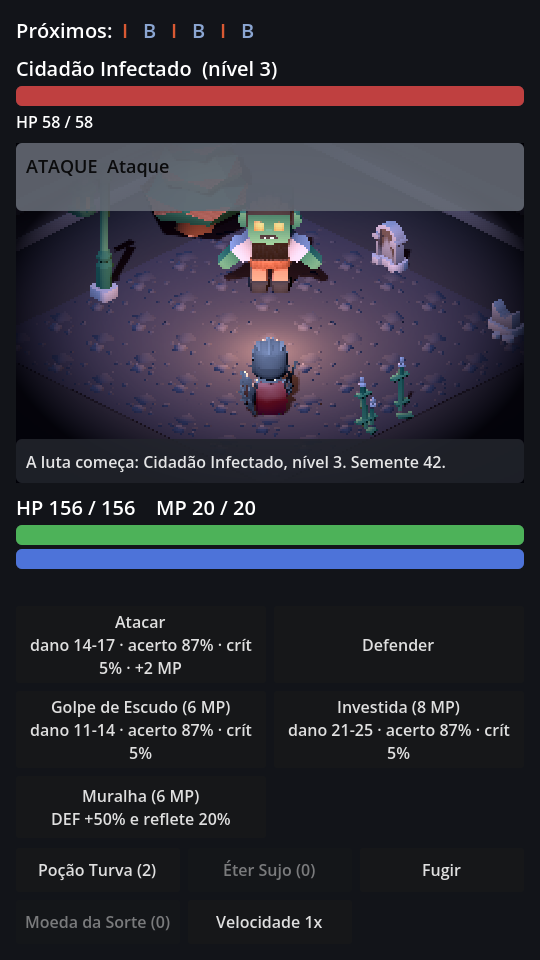
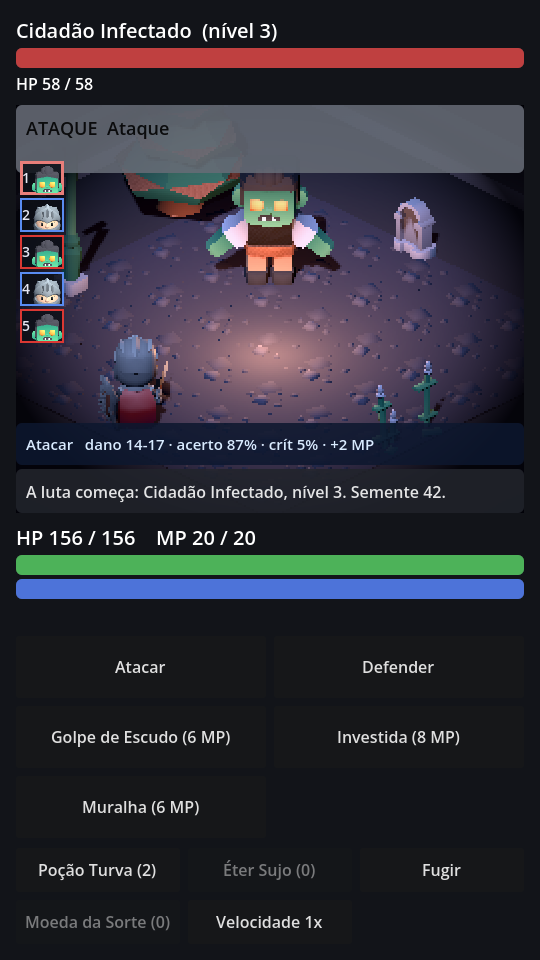
TASK-037: linha do tempo em coluna com retratos, painel de previsão, hit-stop e mutações (ADR-0036)

diff --git a/docs/tasks/TASK-037-combate-3d.md b/docs/tasks/TASK-037-combate-3d.md
@@ -2,7 +2,7 @@
 
 | Campo | Valor |
 | --- | --- |
-| Status | Em andamento: palco 3D, fundo do nó, animações e composição prontos; faltam linha do tempo em coluna, painel de previsão, moeda no palco, hit-stop e mutações no modelo |
+| Status | Em verificação (código, testes e prints prontos; falta o Orlando aprovar os prints e a revisão cruzada) |
 | Aberta em | 2026-11-19 |
 | Fase | 1, apresentação 3D do MVP jogável (ADR-0036) |
 | GDD | 6, 7, 17, 19 |
@@ -22,12 +22,12 @@ A luta passa a acontecer num **palco 3D** derivado do nó do tabuleiro, com comp
 
 - [x] **Fundo do nó:** praça, passagem estreita ou sala do chefe, a partir das mesmas peças do mapa, escurecido, desfocado e com vinheta; clima ativo.
 - [x] **Composição em retrato:** inimigo grande e central, Bibiana de costas embaixo à esquerda, luz no chão e sombras; metade de baixo para painéis e menu.
-- [ ] **Linha do tempo em coluna** à esquerda com retratos numerados (referência FFT) e **ícone de intenção** sobre a cabeça do inimigo; ícones de status.
-- [ ] **Painel de previsão** entre os dois lados (acerto, crítico, dano previsto), no lugar do texto nos botões.
-- [ ] **Moeda no palco:** a moeda cresce ao centro, a vinheta fecha, silêncio e tique; Cara e Coroa distintas por forma e símbolo (GDD §7, §19); escolha do lado e Moeda da Sorte como hoje.
-- [~] **Número de dano** grande e luminoso sobre o alvo, hit-stop de 60 a 100 ms; animações de atacar, receber dano e morrer dos kits. (feito: número sobre o alvo 3D, animações de atacar, receber dano e morrer e tremor de câmera; falta o hit-stop)
-- [~] Menu embaixo na zona do polegar, botões de 48 px ou mais; mutações visíveis no modelo; mini boss e chefe com palco próprio.
-- [ ] Ligado ao `CombatSession` sem mudar regra; a tela 2D fica como depuração. Prints de uma luta comum, de uma com golpe de moeda e do chefe anexados.
+- [x] **Linha do tempo em coluna** à esquerda com retratos numerados (referência FFT) e **ícone de intenção** sobre a cabeça do inimigo; ícones de status.
+- [x] **Painel de previsão** entre os dois lados (acerto, crítico, dano previsto), no lugar do texto nos botões.
+- [~] **Moeda no palco:** a moeda cresce ao centro, a vinheta fecha, silêncio e tique; Cara e Coroa distintas por forma e símbolo (GDD §7, §19); escolha do lado e Moeda da Sorte como hoje.
+- [x] **Número de dano** grande e luminoso sobre o alvo, hit-stop de 60 a 100 ms; animações de atacar, receber dano e morrer dos kits. (feito: número sobre o alvo 3D, animações, tremor de câmera e hit-stop de 70 a 100 ms)
+- [x] Menu embaixo na zona do polegar, botões de 48 px ou mais; mutações visíveis no modelo; mini boss e chefe com palco próprio.
+- [x] Ligado ao `CombatSession` sem mudar regra; a tela 2D fica como depuração. Prints de uma luta comum, de uma com golpe de moeda e do chefe anexados.
 
 ## Arquivos afetados
 
@@ -50,7 +50,7 @@ Suíte em 2026-11-19: 329 testes, 329 passando (`test_combat3d.gd`: palco para t
 
 **Feito:** `Combat3DStage` (palco em 3D com o fundo derivado do tipo do nó: praça, passagem de elite, sala do chefe com cestos de fogo e cripta, muros, luz quente no chão, vinheta), o inimigo grande ao fundo e a Bibiana de costas à frente, animações de atacar, receber dano e morrer, tremor de câmera, números de dano sobre os modelos e a intenção do inimigo e o registro como faixas sobre a cena; `StageKit` compartilhado com o mapa. A tela 2D é a mesma (menus e barras); só o miolo virou 3D.
 
-**Falta (por isso a tarefa segue aberta):** (1) linha do tempo em **coluna com retratos** (hoje são chips de texto no topo); (2) **painel de previsão** entre os dois lados (hoje o texto fica nos botões); (3) **moeda no palco** com vinheta que fecha e silêncio (hoje o medalhão sobe como painel); (4) **hit-stop** de 60 a 100 ms; (5) mutações visíveis no modelo; (6) a Bibiana fica no centro-baixo, não no canto esquerdo; (7) chefe e elite usam substitutos de modelo (ver `assets/LICENSES.md`).
+**Segunda rodada (2026-11-19):** linha do tempo em coluna com retratos 3D numerados (moldura azul para a Bibiana, vermelha para o inimigo), painel de previsão entre os lados que mostra dano, acerto e crítico da ação sob o dedo (botões só com o nome), hit-stop, mutações visíveis no modelo (Inchado alarga, Voraz acende luz vermelha, Fantasma fica translúcido, Espinhoso cresce com luz roxa), Bibiana no canto esquerdo e foco do palco no lance da moeda (escurece e aproxima a câmera). **Ainda falta:** o medalhão da moeda continua como painel por cima da cena (não foi movido para o centro do palco) e não há música para o silêncio (TASK-039); chefe e elite usam substitutos de modelo (ver `assets/LICENSES.md`).
 
 **Teste do print:** 1 cenário com profundidade: sim; 2 composição como Fear & Hunger: em parte (inimigo central, luz no chão, vinheta, faixas de interface; faltam retratos e painel de previsão); 3 não se aplica; 4 kits CC0: sim, sem contorno nem clima (TASK-039); 5 números sobre o mundo: sim; 6 retrato 540x960: sim.
 

diff --git a/docs/HANDOFF.md b/docs/HANDOFF.md
@@ -112,7 +112,7 @@ Ordem sugerida; cada item tem arquivo de tarefa ou é feito pelo Orlando. Antes 
 | 6 | TASK-031 | Apresentação 2D vetorial e áudio procedural | concluída, **reprovada pelo Orlando como visual do MVP** (ADR-0036) | vira modo de depuração; `SoundFx` e `VisualTheme` continuam |
 | 7 | TASK-035 | Kits CC0, licenças, cena de prova isométrica, ferramenta de print | agente (download autorizado pelo Orlando) | **próxima tarefa**; sem ela nada de 3D começa |
 | 8 | TASK-036 | Tabuleiro 3D com altura, visão parcial, névoa e câmera que acompanha | em verificação | prints `docs/tasks/prints/TASK-036-*.png` esperando o OK do Orlando |
-| 9 | TASK-037 | Combate 3D com fundo derivado do nó | em andamento | palco 3D pronto; faltam coluna da linha do tempo, painel de previsão, moeda no palco e hit-stop |
+| 9 | TASK-037 | Combate 3D com fundo derivado do nó | em verificação | prints `docs/tasks/prints/TASK-037-*.png` esperando o OK do Orlando |
 | 10 | TASK-038 | Fogueira, loja, baú, recompensa, menu e Santuário em 3D | agente | ART-DIRECTION §5 |
 | 11 | TASK-039 | Estilo unificado, clima, luz e música | agente | os kits parecerem um jogo só |
 | 12 | TASK-040 | Fechamento visual: o Orlando joga e aprova | Orlando | fecha o "MVP jogável" |
